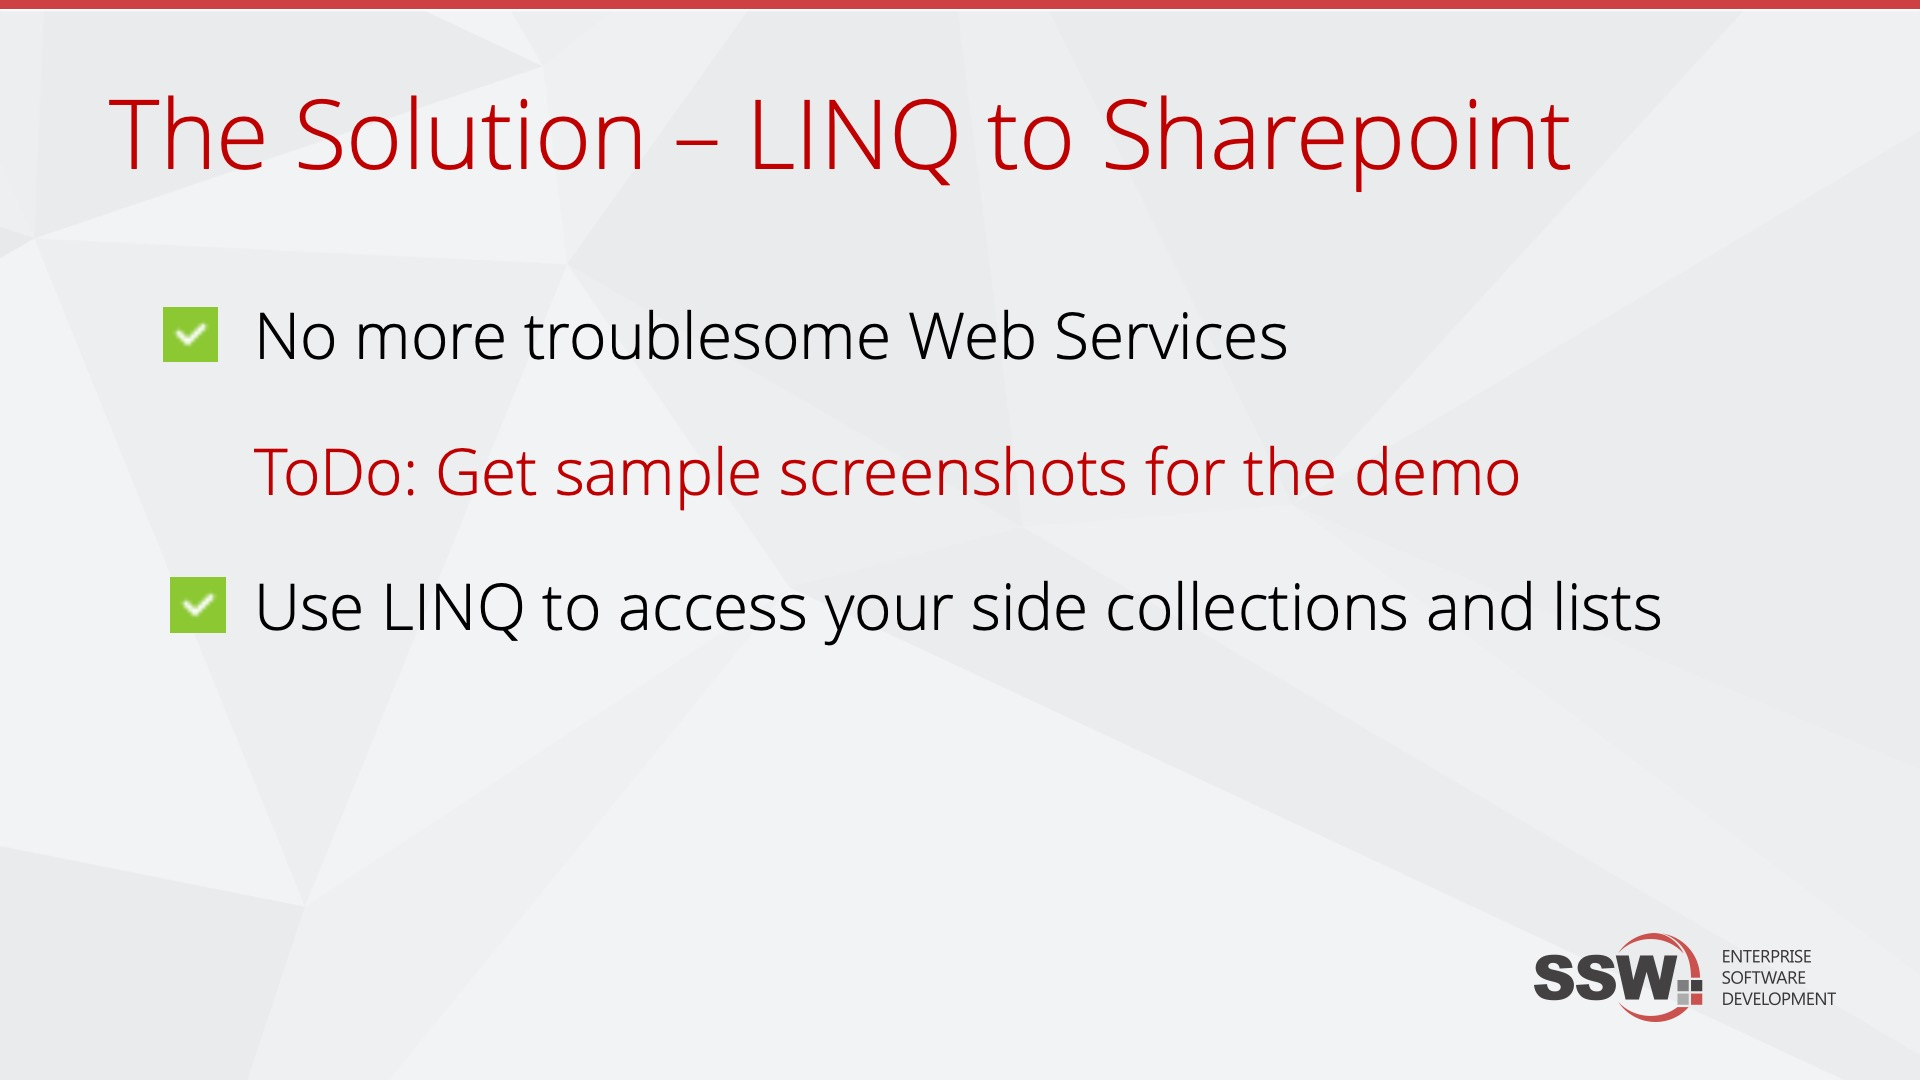
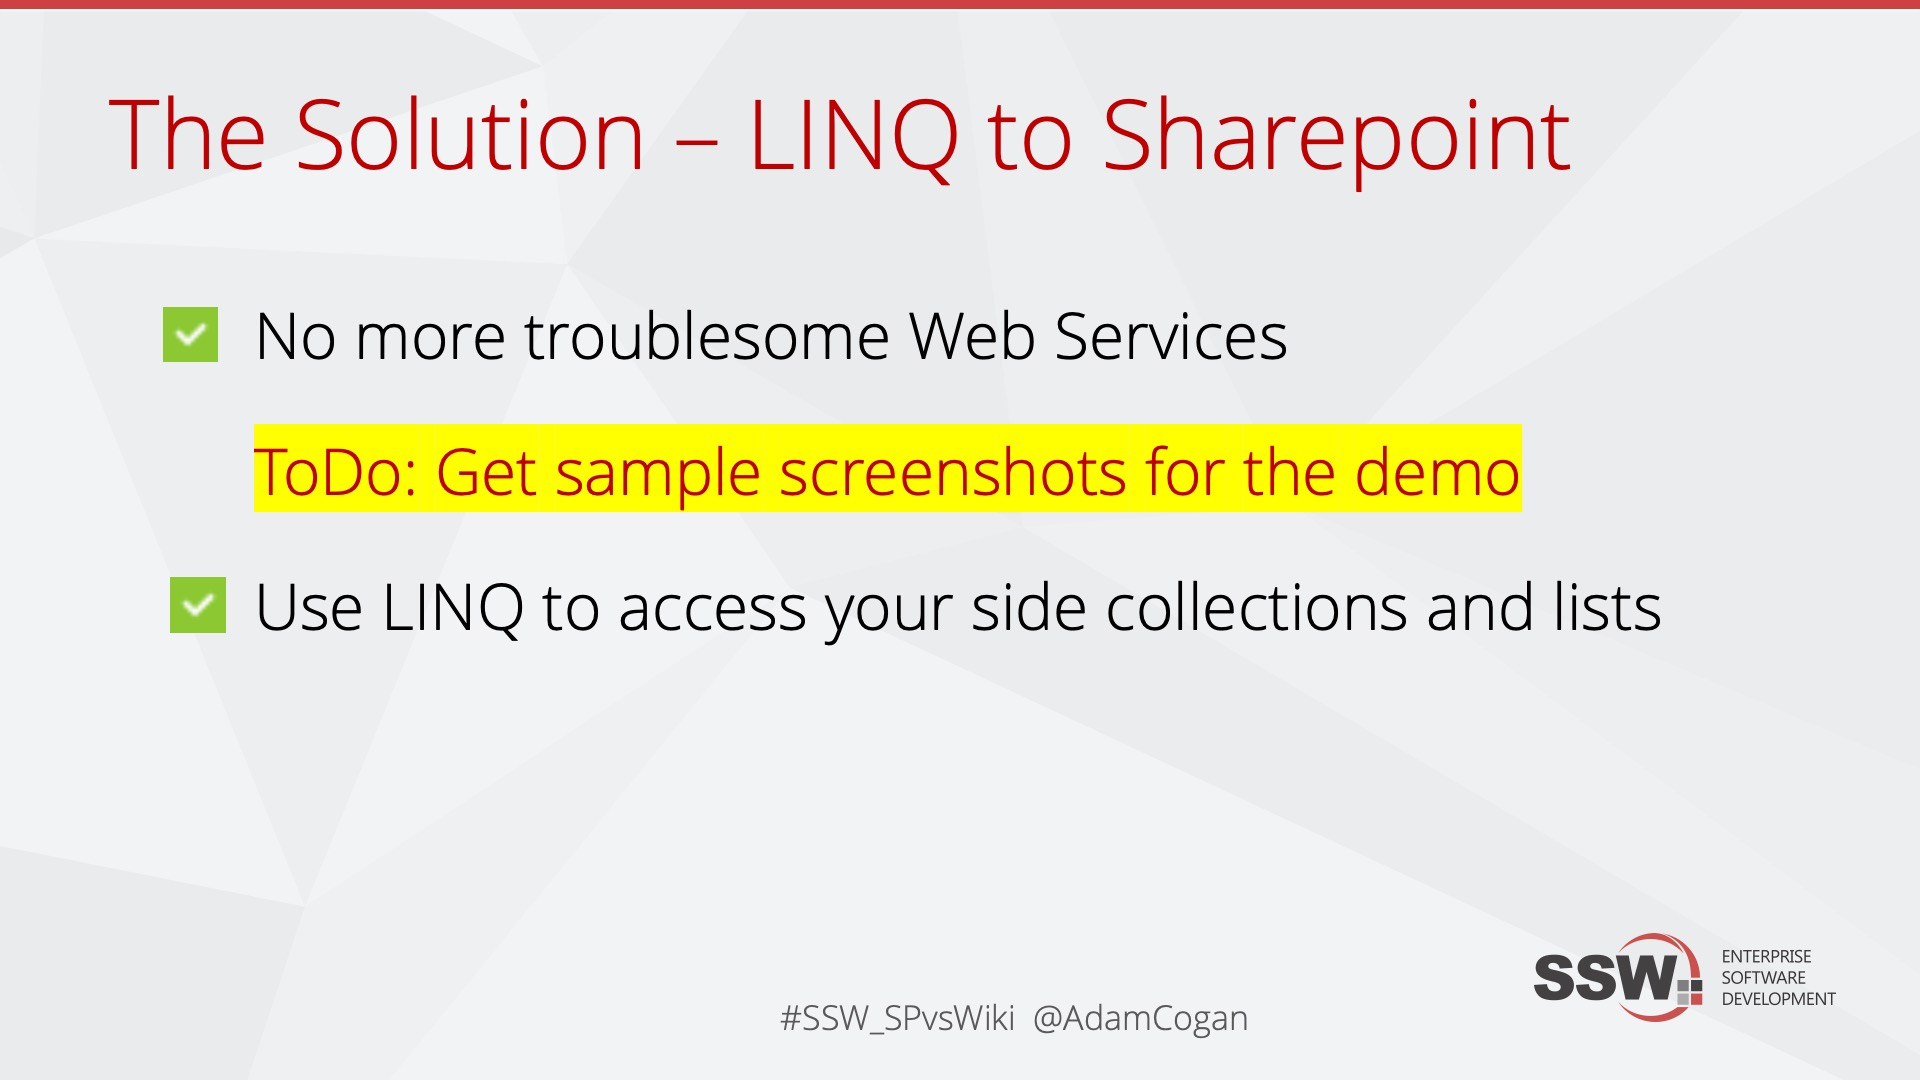
Update Rule “do-you-make-todo-items-in-red/rule”

Changed region(s): [[0.125, 0.3667, 0.8125, 0.4889], [0.4062, 0.9167, 0.6562, 0.9472]]

diff --git a/rules/do-you-make-todo-items-in-red/rule.md b/rules/do-you-make-todo-items-in-red/rule.md
@@ -18,4 +18,4 @@ You might have plenty of ideas when you are preparing your presentation. Add the
 
 <!--endintro-->
 
-![Figure: Put your working "TODO:" notes in red](goodtodo.jpg)
+![Figure: Put your working "TODO:" notes in red and highlighted](goodtodo.jpg)
